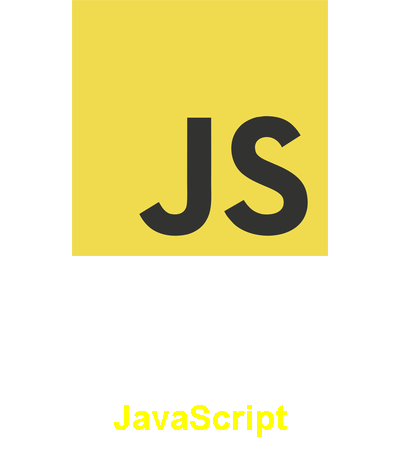
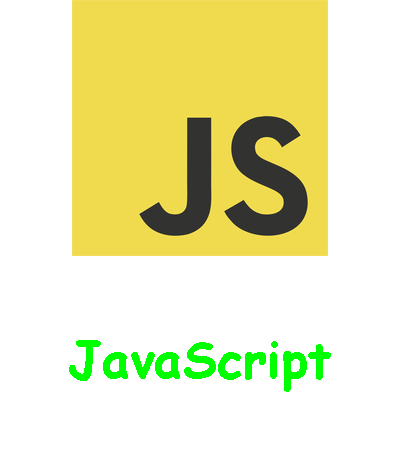
feat: update technologies API url

Changed region(s): [[0.15, 0.7467, 0.84, 0.8711], [0.27, 0.9022, 0.72, 0.9644]]

diff --git a/manufacture-stickers/src/StickerGenerate.java b/manufacture-stickers/src/StickerGenerate.java
@@ -18,7 +18,6 @@ public class StickerGenerate {
         // Create a image that will be the background of the main image
         int stickerWidth = 400;
         int resizedHeight = (originalImage.getHeight() * stickerWidth) / originalImage.getWidth();
-        ;
         int newHeight = resizedHeight + 50;
         BufferedImage novaImagem = new BufferedImage(stickerWidth, newHeight, BufferedImage.TRANSLUCENT);
 
@@ -27,8 +26,8 @@ public class StickerGenerate {
         graphics.drawImage(originalImage, stickerWidth/2 - originalImage.getHeight()/2, 0, null);
 
         // set the font
-        var fonte = new Font("Arial", Font.BOLD, 35);
-        graphics.setColor(Color.YELLOW);
+        var fonte = new Font("Comic Sans MS", Font.BOLD, 50);
+        graphics.setColor(Color.GREEN);
         graphics.setFont(fonte);
         graphics.setBackground(Color.BLACK);
         FontMetrics phraseSize = graphics.getFontMetrics(fonte);
@@ -41,8 +40,9 @@ public class StickerGenerate {
             graphics.drawString(needNextLine[1], stickerWidth / 2 - phraseSize.stringWidth(needNextLine[1]) / 2,
                     newHeight - 10);
         } else {
+            int legendPosition = (resizedHeight - originalImage.getHeight()) / 2;
             graphics.drawString(description, stickerWidth / 2 - phraseSize.stringWidth(description) / 2,
-                    newHeight - 20);
+                    newHeight - legendPosition);
 
         }
 
@@ -51,6 +51,7 @@ public class StickerGenerate {
 
     }
 
+    
     private String[] needBreakDescription(String description) {
         if (description.length() > 25) {
             String[] text = new String[2];

diff --git a/manufacture-stickers/src/ApiUrl.java b/manufacture-stickers/src/ApiUrl.java
@@ -1,6 +1,6 @@
 public enum ApiUrl {
     NASA_PICTURES("https://api.nasa.gov/planetary/apod?api_key=DEMO_KEY&start_date=2022-07-18&end_date=2022-07-21"),
-    TECHNOLOGIES_PICTURES("http://localhost:8080/technologies");
+    TECHNOLOGIES_PICTURES("https://api-stickers-server.herokuapp.com/technologies");
 
     private final String link;
 
